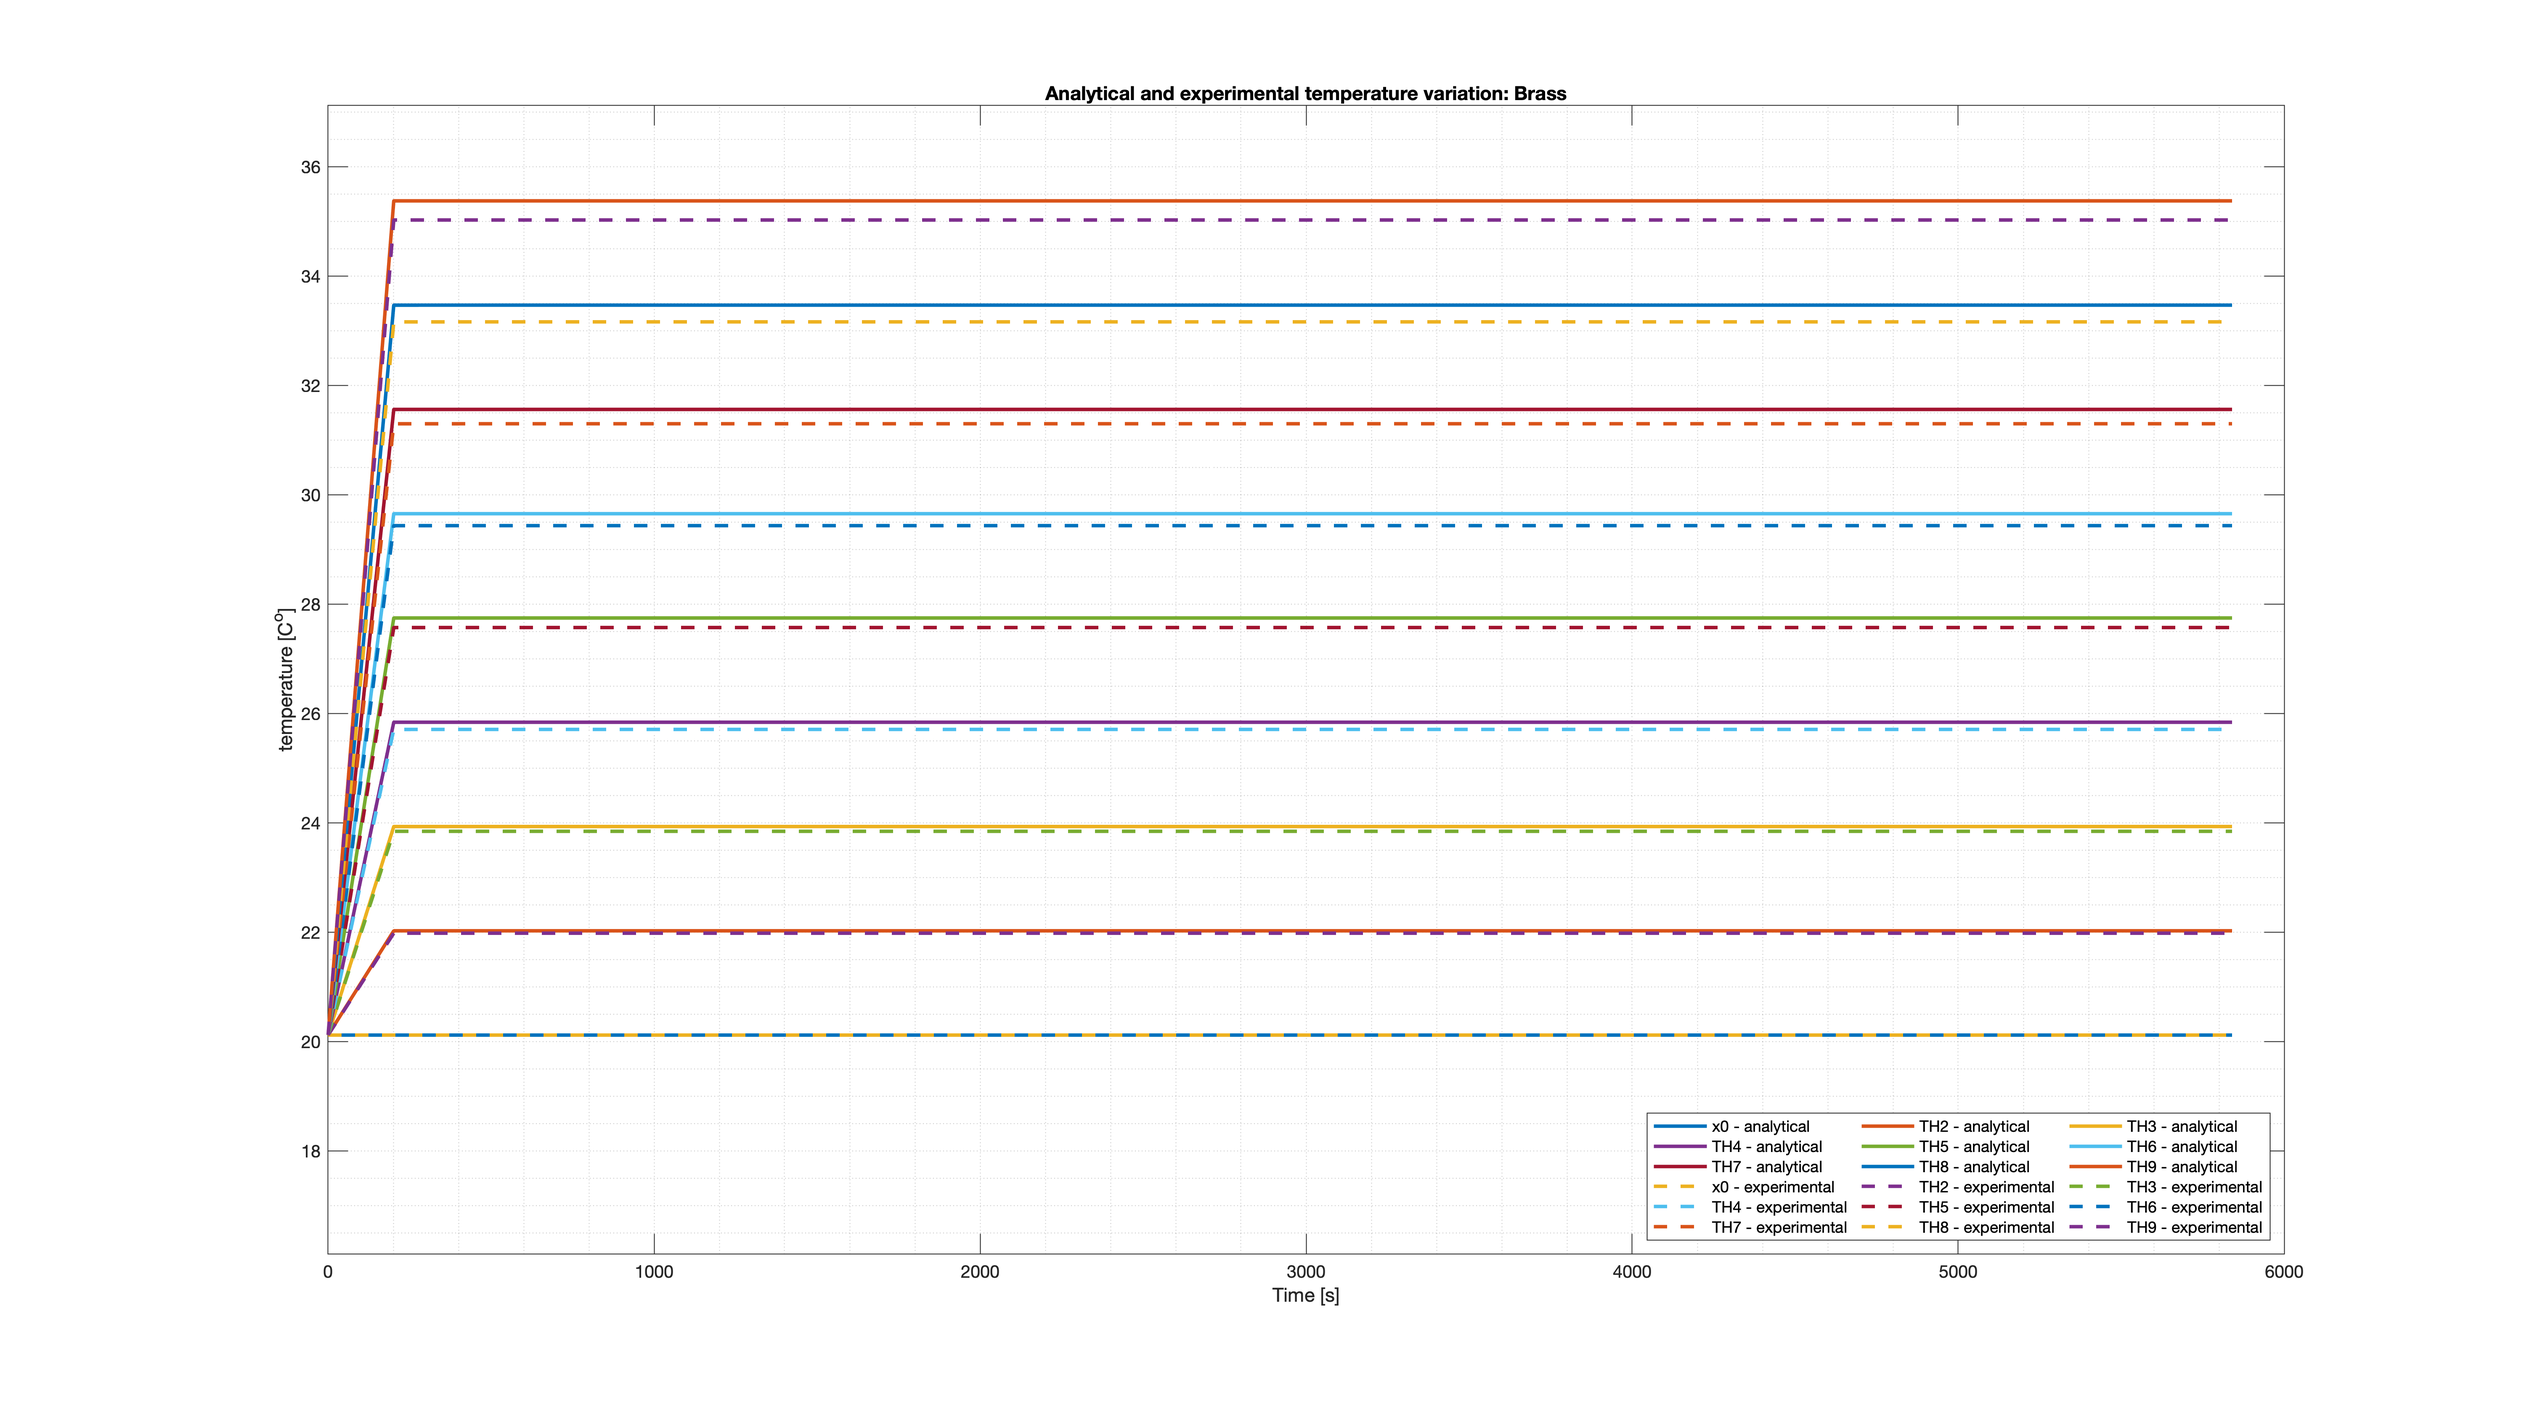
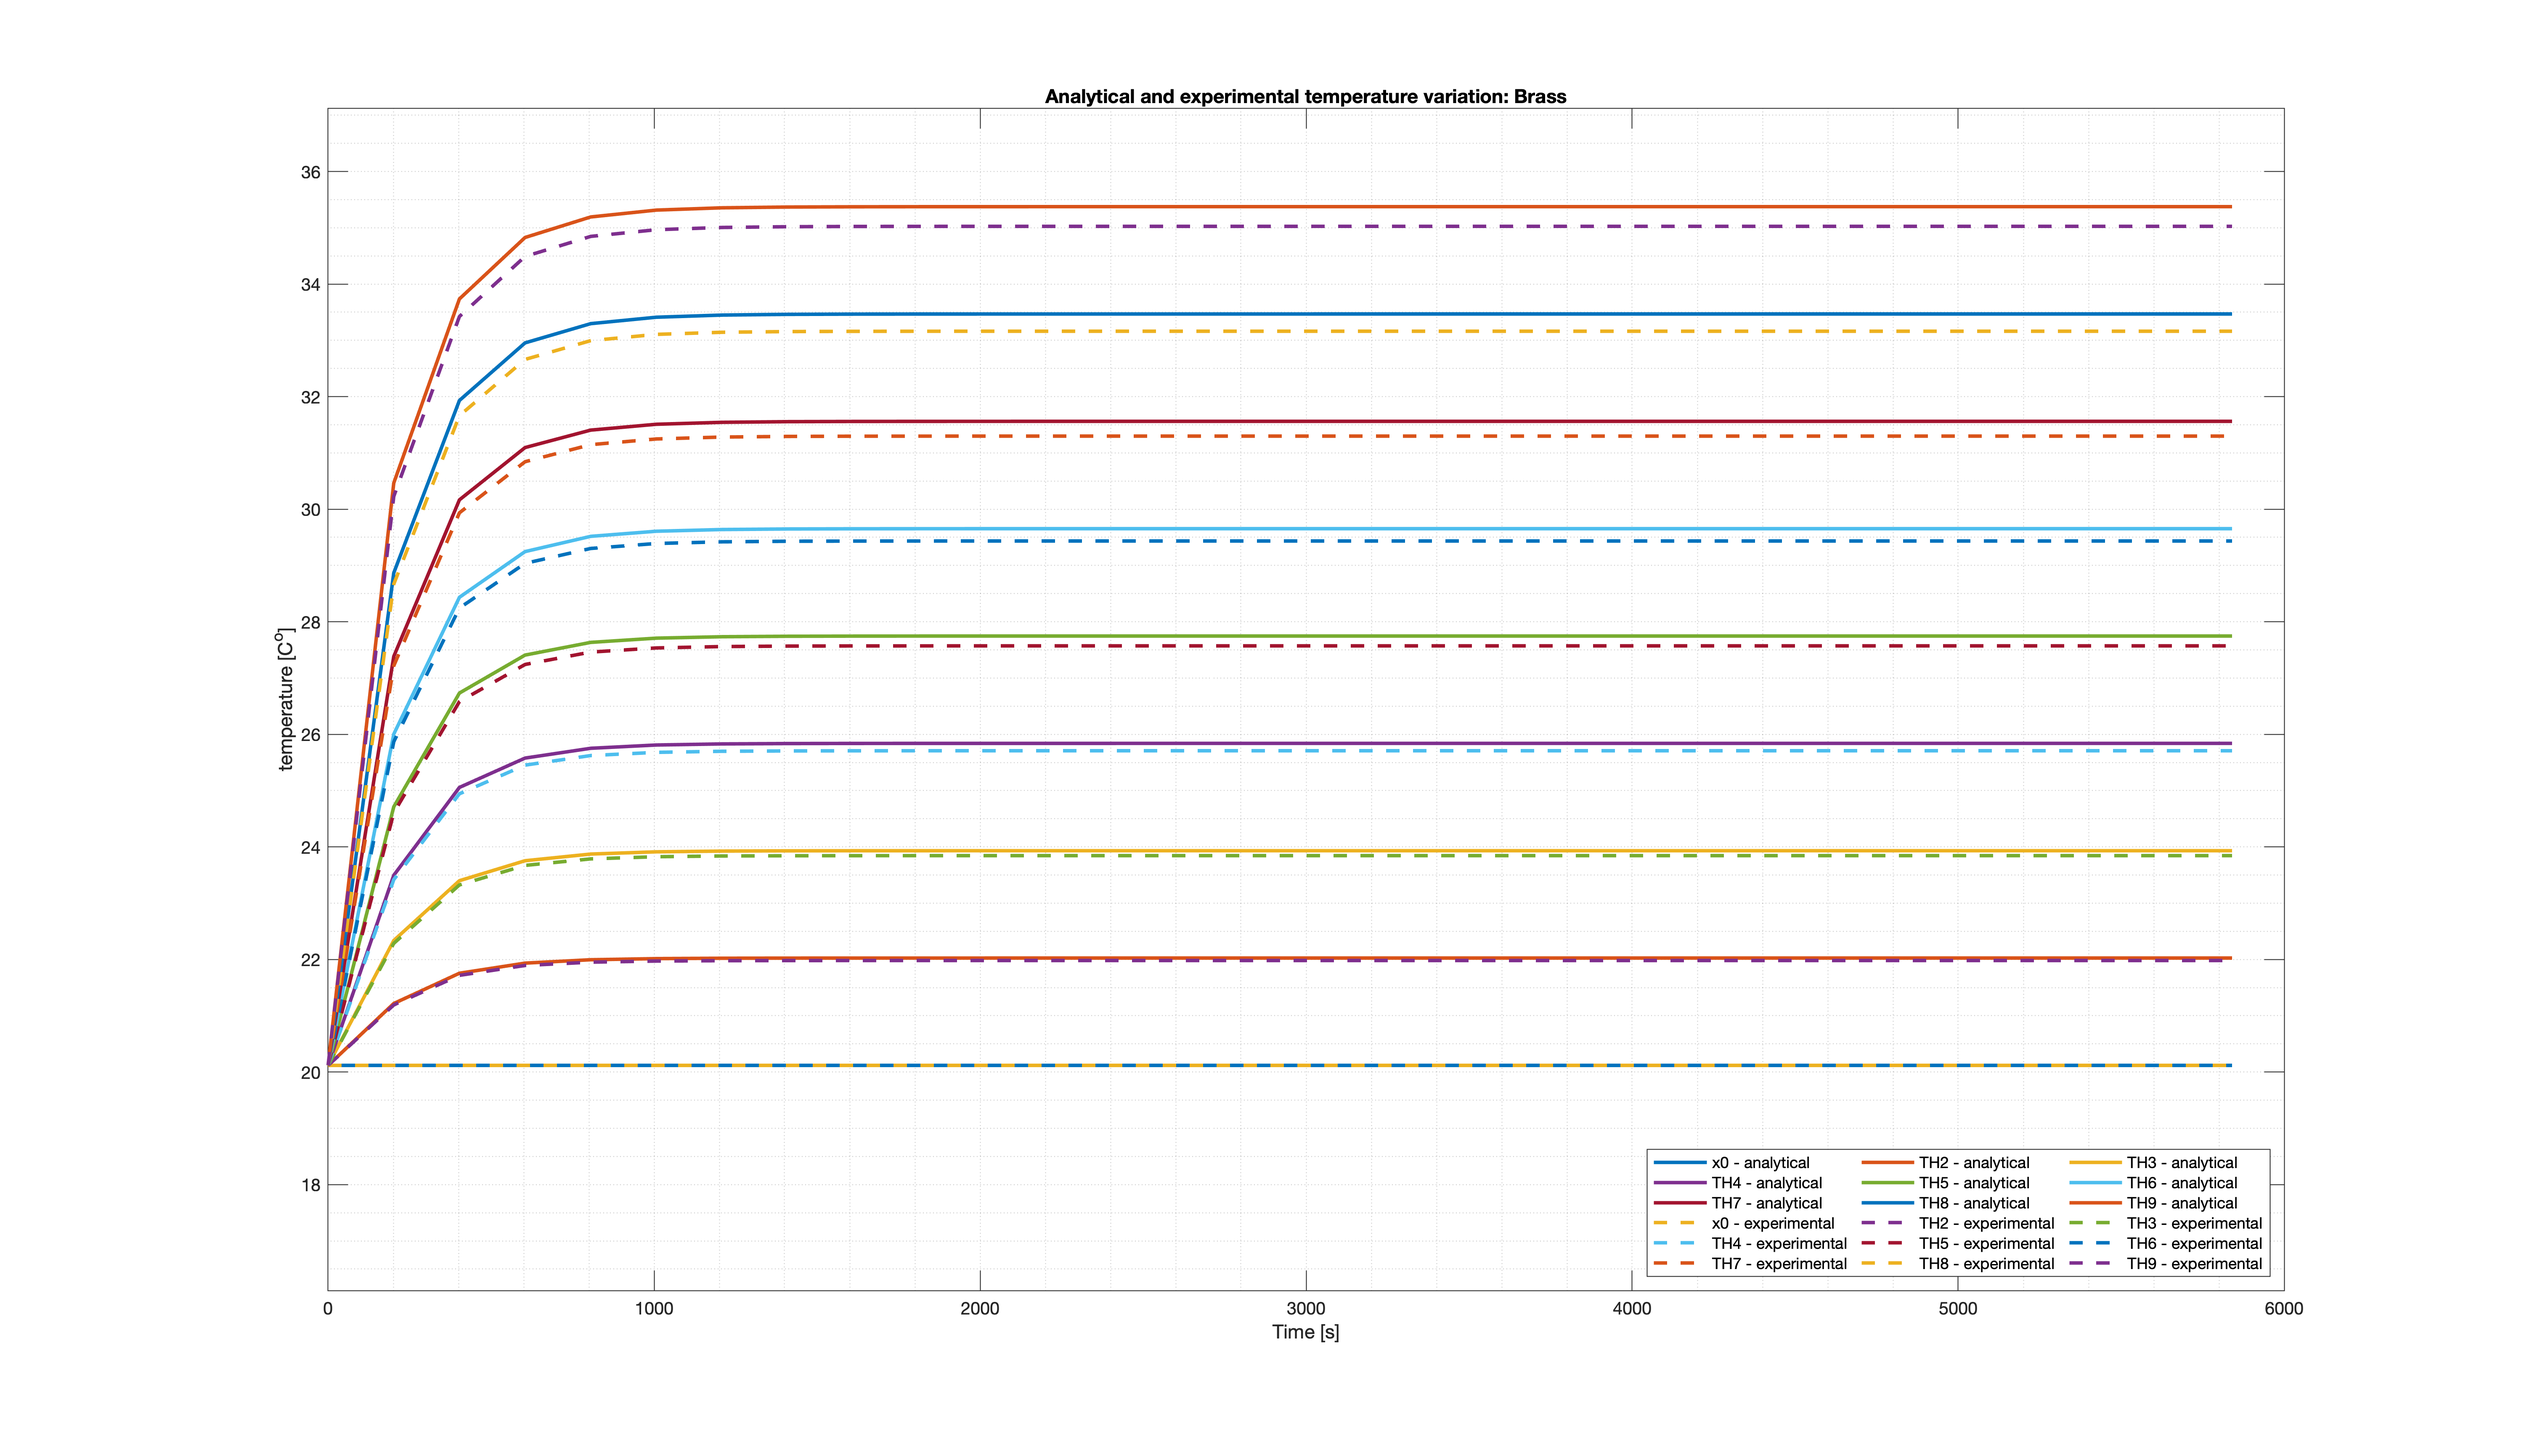
Update alpha values

Changed region(s): [[0.1247, 0.1242, 0.8727, 0.7451], [0.6545, 0.7761, 0.9038, 0.9003]]

diff --git a/Miain.m b/Miain.m
@@ -275,7 +275,7 @@ grid minor
  %% repeate for Brass
  
  syms n t
-alpha = 35.6e-5;
+alpha = 3.56e-5;
 
 times = linspace(time_Brass(1),time_Brass(end),30); % time array
 fourier_n = 20; % number  of fourier terms.
@@ -353,7 +353,7 @@ ylim([T0_Brass-4 T0_Brass+17])
  %% repeate for Steel
  
  syms n t
-alpha = 4.05e-5;
+alpha = 4.05e-6;
 
 times = linspace(time_Steel(1),time_Steel(end),30); % time array
 fourier_n = 20; % number  of fourier terms.
